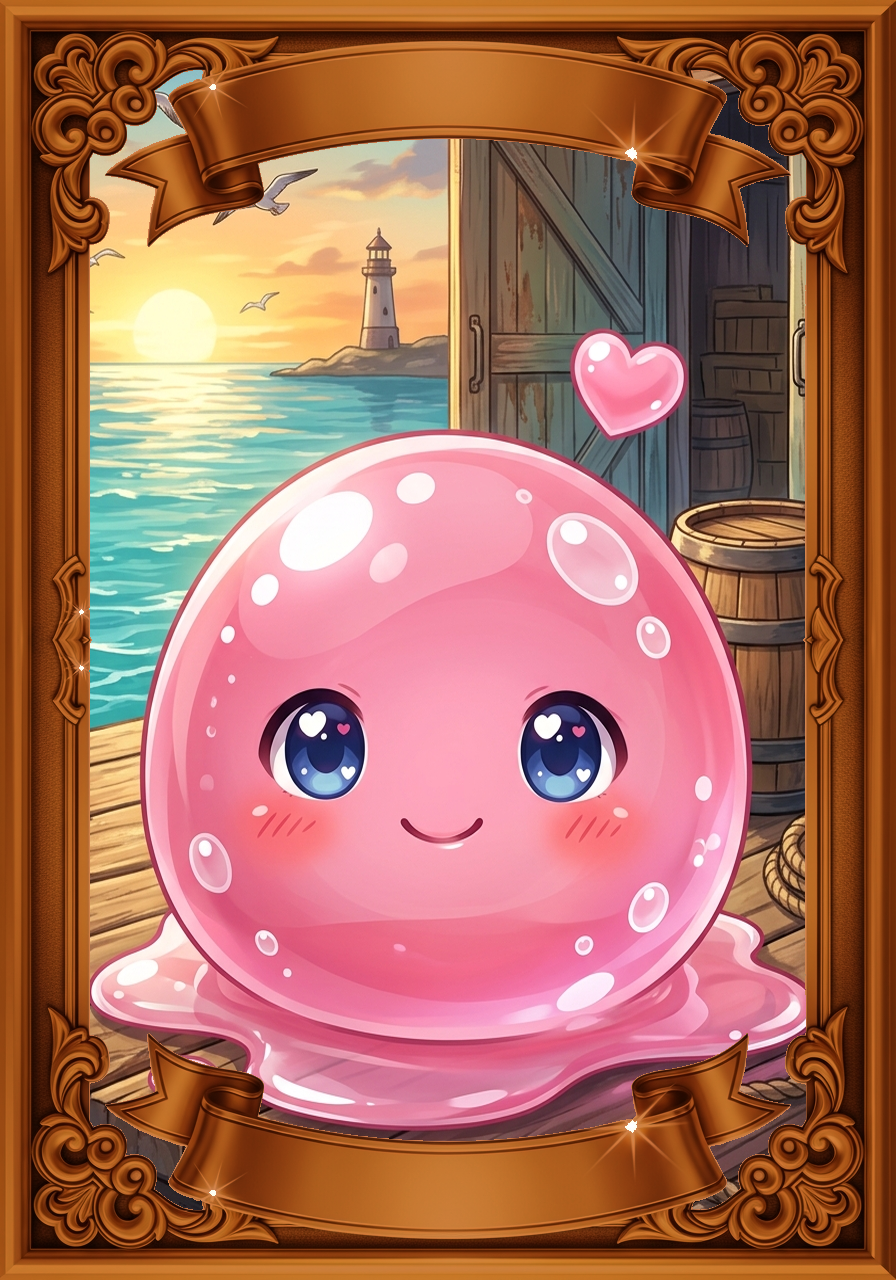
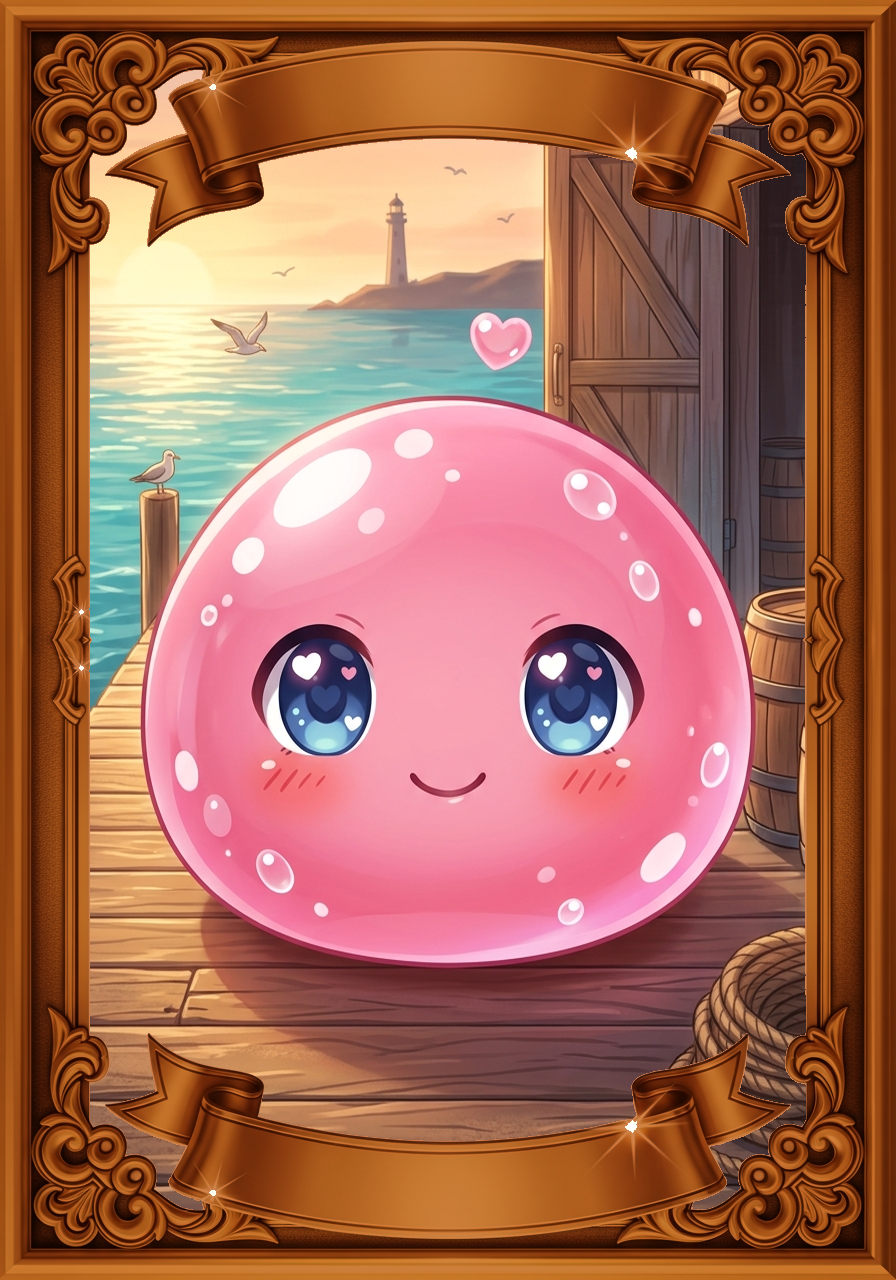
サポート機能修正 + プリンの液体削除
サポート機能:
- 灰色「もう一回」(クリア後)ではサポート発動しない
- 赤「もう一回」(ミス後)のみ発動
- 1ステージにつき1回限り（2回目以降のミスでは発動しない）
- マップからの新規プレイ時にフラグリセット

プリンカード:
- 下部の液体/グーの水たまりを削除
- 手足なしの純粋な丸いゼリーブロブ

diff --git a/stage.html b/stage.html
@@ -1726,7 +1726,7 @@ body {
     </div>
     <div class="fail-btns">
       <button class="fbtn fbtn-back" onclick="backToMap()">やめる</button>
-      <button class="fbtn fbtn-retry" id="fbtn-retry" onclick="retryStage()">もう一回</button>
+      <button class="fbtn fbtn-retry" id="fbtn-retry" onclick="retryStage(true)">もう一回</button>
     </div>
   </div>
 </div>
@@ -3738,6 +3738,7 @@ function updateProg() {
 function startStage(d, idx) {
   curDiff = d; curIdx = idx;
   _slotW = 0; _slotH = 0; // Reset cached slot dimensions
+  _supportUsed = false; _supportMode = false; _supportLeft = 0;
   const s = STAGES[d][idx];
   const dc = DC[d];
   const gv = document.getElementById('game-view');
@@ -5738,6 +5739,7 @@ function goBack() { window.location.href = 'index.html?classic&autoselect=1'; }
 
 let _supportMode = false;  // ミス後リトライ時の優しさサポート
 let _supportLeft = 0;      // サポート残り問題数
+let _supportUsed = false;  // このステージでサポート使用済みか
 
 // 得意な数字リスト（正答回数が多い順）
 function getComfortNumbers() {
@@ -5748,13 +5750,16 @@ function getComfortNumbers() {
 }
 let _comfortNumbers = [];
 
-function retryStage() {
+function retryStage(fromFail) {
   document.getElementById('fail-overlay').classList.remove('show');
   document.getElementById('result-overlay').classList.remove('show');
-  // ミス後のリトライ → サポートモード発動（最初の2問を優しく）
-  _supportMode = true;
-  _supportLeft = 2;
-  _comfortNumbers = getComfortNumbers();
+  // ミス後の赤ボタンからのリトライのみ、かつ1回限りサポート発動
+  if(fromFail && !_supportUsed) {
+    _supportMode = true;
+    _supportLeft = 2;
+    _supportUsed = true;
+    _comfortNumbers = getComfortNumbers();
+  }
   if(taMode) { startTA(taDiff); return; }
   if(survivalMode) { startSurvival(); return; }
   if(drillMode) { startDrillWithDiff(drillDiff); return; }
